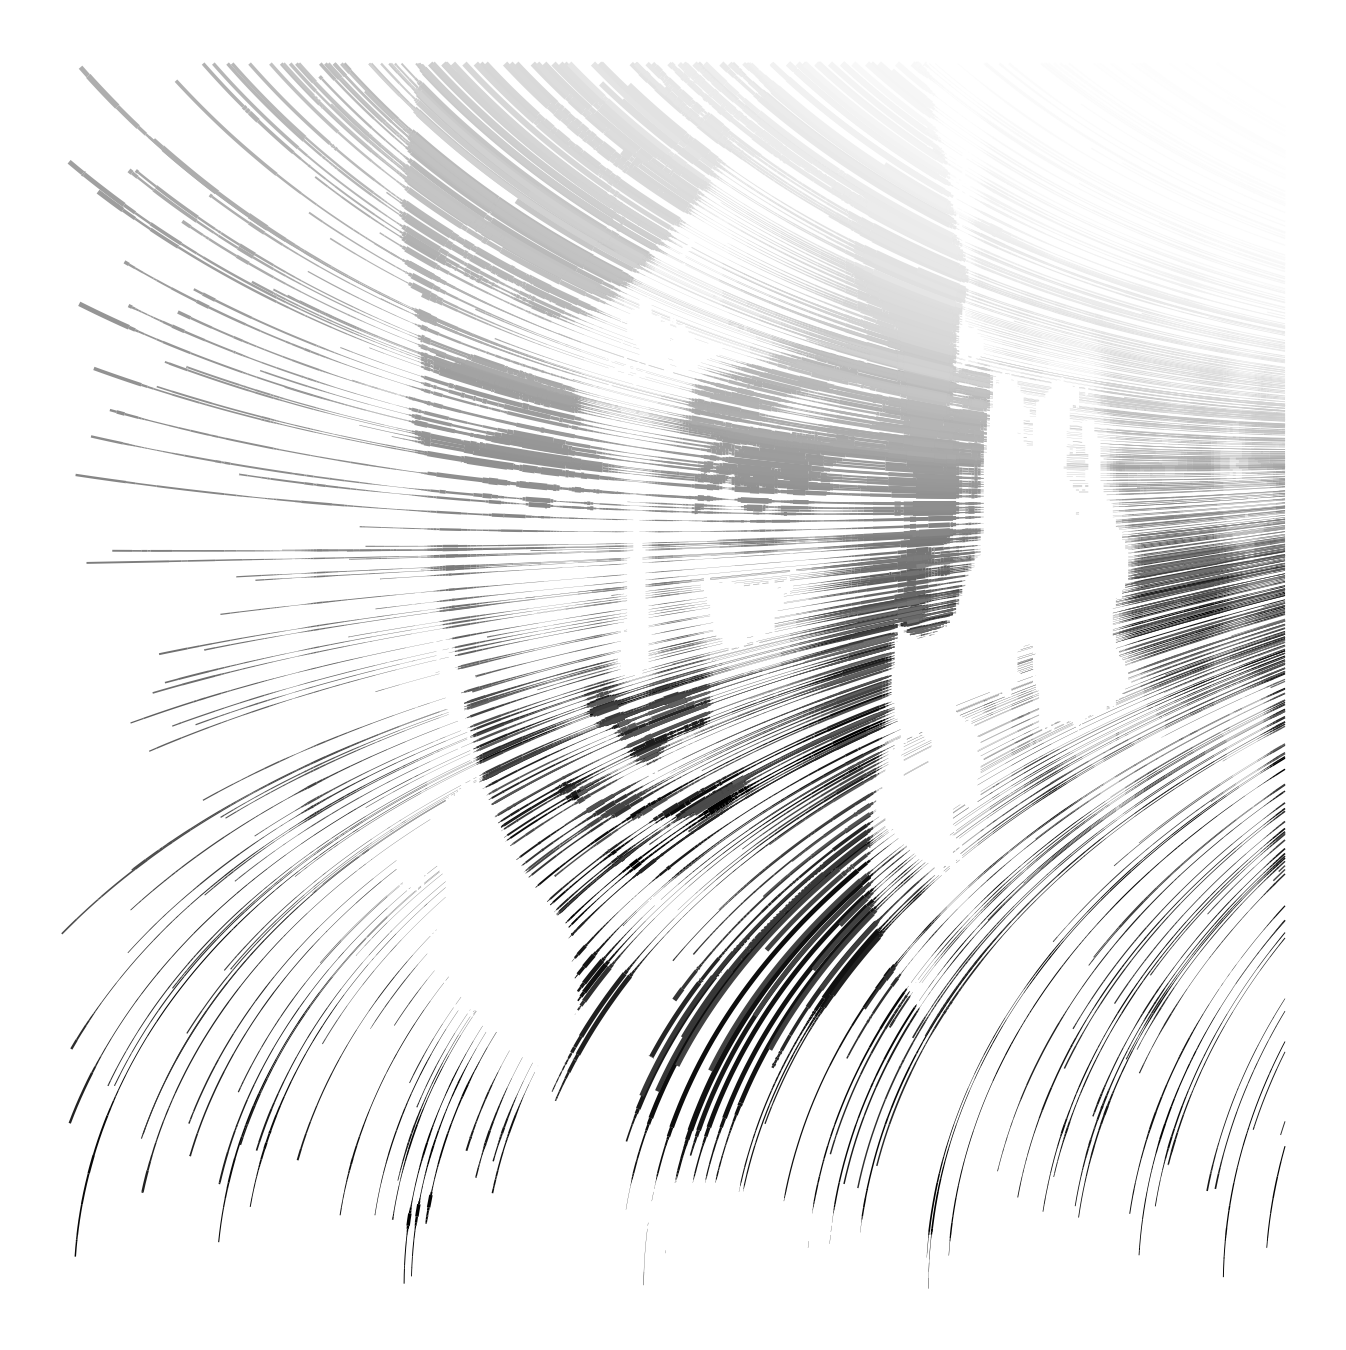
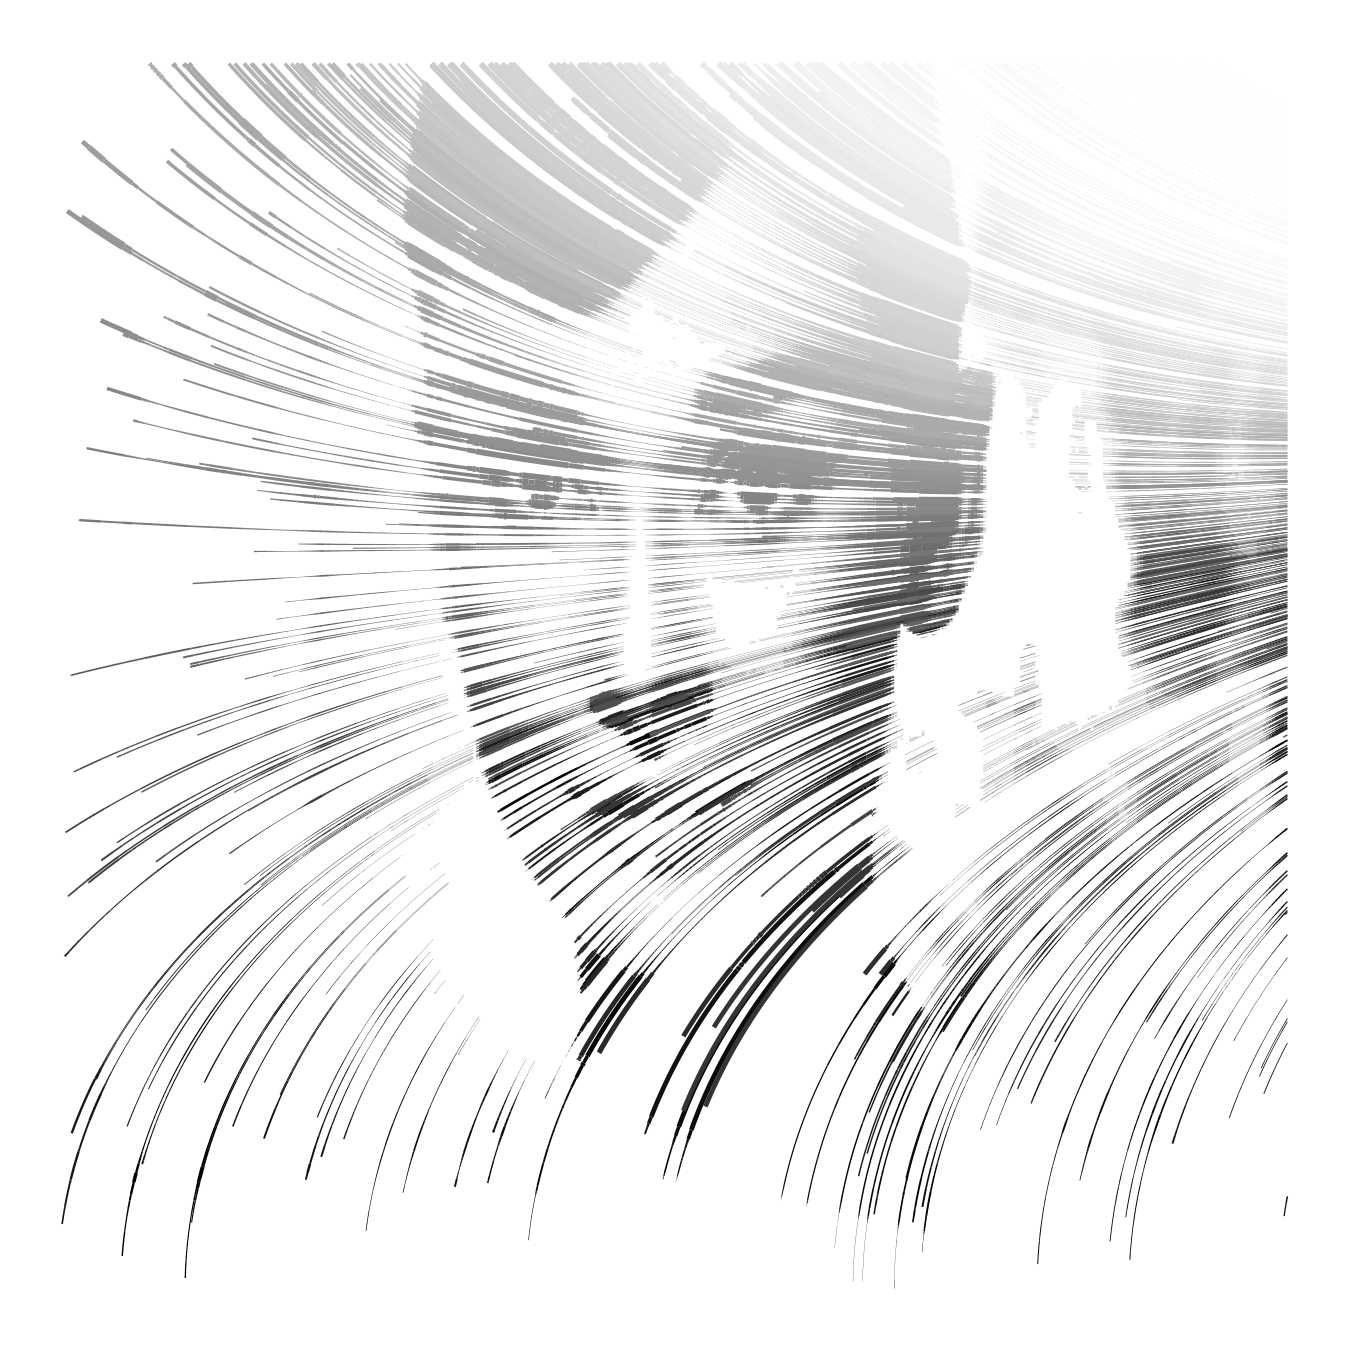
added flow effect to webapp

diff --git a/pages/flow.py b/pages/flow.py
@@ -6,7 +6,7 @@ from effects import flow_function
 
 
 def main():
-    st.title("Spiral")
+    st.title("Flow")
     uploaded_file = st.file_uploader("Choose a png image file", type=["png", "jpg"])
     if uploaded_file is not None:
         input_image = Image.open(uploaded_file)
@@ -17,12 +17,10 @@ def main():
         spiral_r0 = st.sidebar.slider("Spiral r0", 0, 100, 0)
         spiral_r1_f = st.sidebar.slider("Spiral r1 factor", 0.0, 1.0, 0.5)
         thin = st.sidebar.slider("Thin", 0.0001, 0.0010, 0.00025)
-        thick_f = st.sidebar.slider("Thick factor", 0.0, 1.0, 0.95)
+        thick_f = st.sidebar.slider("Thick factor", 0.0, 1.0, 0.45)
         n_steps = st.sidebar.slider("Number of steps", 0, 1000, 400)
         crop = st.sidebar.checkbox("Crop Image")
-        colormap = st.sidebar.selectbox(
-            "Colormap", ["gray", "viridis", "plasma", "none"]
-        )
+        colormap = st.sidebar.selectbox("Colormap", ["viridis", "plasma", "none"])
         rescaler_factor = st.sidebar.slider("Rescaler Factor", 0.0, 2.0, 1.0)
         # Create a temporary file for the input image
         with tempfile.NamedTemporaryFile(suffix=".png", delete=False) as temp_file:
@@ -31,7 +29,7 @@ def main():
 
         if st.button("Generate Flow"):
             output_buffer = io.BytesIO()
-            flow_function(
+            output_image = flow_function(
                 input_image=temp_file_path,
                 x_side=size,
                 y_side=size,
@@ -40,11 +38,18 @@ def main():
                 n_steps=n_steps,
                 thin=thin,
                 thick=thick_f,
+                colormap=colormap,
             )
-            output_image = Image.open(output_buffer)
+            # output_image = Image.open(output_buffer)
+            # st.image(output_image, caption="Generated Flow", use_column_width=True)
+            # output_buffer.seek(0)
+            # st.download_button("Download Flow", output_buffer, file_name="flow.png")
             st.image(output_image, caption="Generated Flow", use_column_width=True)
+            output_image.save(output_buffer, format="PNG")
             output_buffer.seek(0)
-            st.download_button("Download Flow", output_buffer, file_name="flow.png")
+            st.download_button(
+                "Download Flow", output_buffer, file_name="flow.png", mime="image/png"
+            )
 
 
 if __name__ == "__main__":

diff --git a/effects.py b/effects.py
@@ -1,3 +1,4 @@
+import io
 import matplotlib.pyplot as plt
 import noise
 import numpy as np
@@ -374,6 +375,7 @@ def flow_function(
     output_image="output_flow.png",
     crop=False,
     rescaler_factor=1.0,
+    colormap="none",
 ):
     # Prepare the image
     img = Image.open(input_image)
@@ -408,11 +410,10 @@ def flow_function(
 
     # Plot the intersections
     fig, ax = plt.subplots()
-    # if colormap == "none":
-    #    intersections.plot(ax=ax, facecolor="black", edgecolor="none")
-    # else:
-    #    intersections.plot(ax=ax, facecolor="black", edgecolor="none", cmap=colormap)
-    intersections.plot(ax=ax, facecolor="black", edgecolor="none", cmap="gray")
+    if colormap == "none":
+        intersections.plot(ax=ax, facecolor="gray", edgecolor="none")
+    else:
+        intersections.plot(ax=ax, facecolor="black", edgecolor="none", cmap=colormap)
     ax.set_aspect("equal")
     ax.set_axis_off()
     plt.tight_layout()
@@ -420,11 +421,17 @@ def flow_function(
     fig.savefig(output_image, dpi=300, bbox_inches="tight", pad_inches=0)
 
     # Convert flow lines to a PIL image
-    img_width, img_height = input_image.size
+    img_width, img_height = img.size
     flowed_image = Image.new("L", (img_width, img_height), 255)
     draw = ImageDraw.Draw(flowed_image)
 
     for line in flow_gdf.geometry:
         draw.line(line.coords, fill=0)
+
+    # Convert the plotted figure to a PIL image
+    buf = io.BytesIO()
+    fig.savefig(buf, format="png", dpi=300, bbox_inches="tight", pad_inches=0)
+    buf.seek(0)
+    flowed_image = Image.open(buf)
 
     return flowed_image

diff --git a/welcome.py b/welcome.py
@@ -32,8 +32,8 @@ def main():
             switch_page("spiral")
         elif selected_function == "Double Spiral":
             switch_page("double_spiral")
-        elif selected_function == "Grid":
-            gridoglyph_page()
+        elif selected_function == "Flow":
+            switch_page("flow")
 
 
 if __name__ == "__main__":
